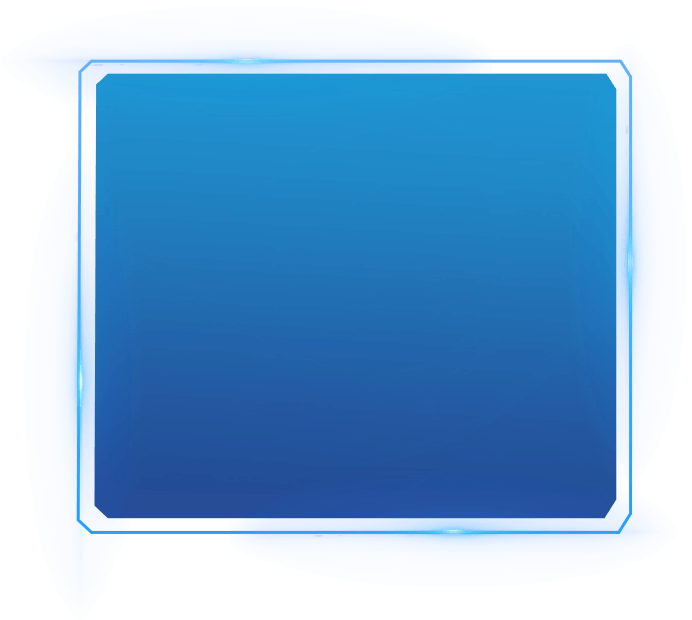
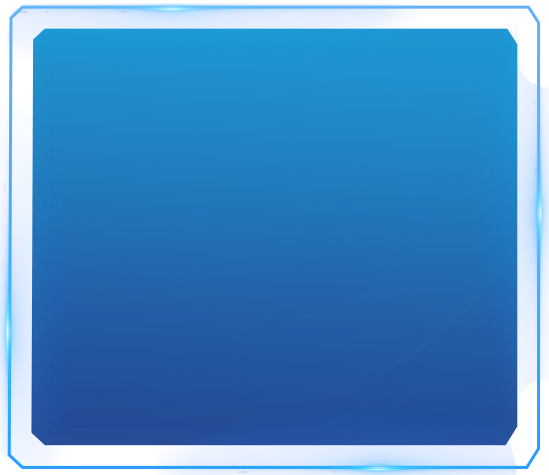
提交logo更新

diff --git a/src/bundles/authBundle/login/index.vue b/src/bundles/authBundle/login/index.vue
@@ -1,19 +1,21 @@
 <template>
   <div class="jc-login-warp">
-    <img src="./assets/login-bg.png" class="jc-login-bg" />
+    <img :src="systemBg" class="jc-login-bg" />
     <div class="jc-login-header" :style="systemLogo"></div>
-    <div class="jc-login-space">
-      <div class="jc-login-title">欢迎登录</div>
-      <div class="jc-input-warp">
-        <input class="jc-login-input" type="text" v-model="form.userName" placeholder="请输入账号" maxlength="20" @keyup.enter="onSubmit" />
-      </div>
-      <div class="jc-input-warp">
-        <input class="jc-login-input" type="password" v-model="form.password" placeholder="请输入密码" maxlength="20" @keyup.enter="onSubmit" />
-      </div>
-      <div class="jc-tip" v-text="tip"></div>
-      <div class="jc-login-btn" @click="onSubmit">
-        <JcSpinner v-if="loading"></JcSpinner>
-        <span v-else>登 录</span>
+    <div class="jc-login-space" :style="loginBg" :class="loginPosition">
+      <div class="jc-logon-content">
+        <div class="jc-login-title">欢迎登录</div>
+        <div class="jc-input-warp">
+          <input class="jc-login-input" type="text" v-model="form.userName" placeholder="请输入账号" maxlength="20" @keyup.enter="onSubmit" />
+        </div>
+        <div class="jc-input-warp jc-last-child">
+          <input class="jc-login-input" type="password" v-model="form.password" placeholder="请输入密码" maxlength="20" @keyup.enter="onSubmit" />
+        </div>
+        <div class="jc-tip" v-text="tip"></div>
+        <div class="jc-login-btn" @click="onSubmit">
+          <JcSpinner v-if="loading"></JcSpinner>
+          <span v-else>登 录</span>
+        </div>
       </div>
     </div>
   </div>
@@ -24,6 +26,7 @@ import { login } from '@/api/auth'
 import md5 from 'md5'
 import { getDomainLogoConfig, setDomainLogoConfig } from '@/libs/storage'
 import { listAll } from '@/api/domainLogo'
+import { LOGIN_WINDOWS_POSITION } from '@/constant/Dictionaries'
 
 export default {
   name: 'Login',
@@ -43,7 +46,18 @@ export default {
       return this.config.domainLogo ? `background-image: url(${this.config.domainLogo});` : ''
     },
     systemBg() {
-      return this.config.domainLogo ? `background-image: url(${this.config.domainLogo});` : ''
+      return this.config.firstPageLogo ? this.config.firstPageLogo : require('./assets/login-bg.png')
+    },
+    loginBg() {
+      return this.config.firstPageLoginLogo ? `background-image: url(${this.config.firstPageLoginLogo});` : ''
+    },
+    loginPosition() {
+      if (this.config.loginLogoLocation == LOGIN_WINDOWS_POSITION.LEFT) {
+        return 'jc-left'
+      } else if (this.config.loginLogoLocation == LOGIN_WINDOWS_POSITION.CENTER) {
+        return 'jc-center'
+      }
+      return ''
     }
   },
   created() {
@@ -53,16 +67,16 @@ export default {
     async initData() {
       let configs = getDomainLogoConfig()
 
-      this.calcLogo(configs)
+      this.calcConfig(configs)
       try {
         configs = await listAll()
-        this.calcLogo(configs)
+        this.calcConfig(configs)
         setDomainLogoConfig(configs)
       } catch (error) {
         console.log(error)
       }
     },
-    calcLogo(configs) {
+    calcConfig(configs) {
       console.log('登录系统配置', configs)
       //根据配置设置系统logo
       if (configs && configs.length) {
@@ -80,7 +94,7 @@ export default {
           this.loading = true
           login({ userName: this.form.userName, password: md5(this.form.password) }).then((res) => {
             this.setUser(res)
-            let goUrl = '/'
+            let goUrl = { name: this.config.entranceRouter ? this.config.entranceRouter : 'index' }
 
             if (this.$route.query.callbackUrl && !this.$route.query.callbackUrl.includes('login')) {
               goUrl = this.$route.query.callbackUrl
@@ -122,26 +136,42 @@ export default {
   background-image: url(/static/images/login-logo.png);
   background-repeat: no-repeat;
   background-position: 60px center;
-  border-bottom: solid 1px #253270;
 }
 .jc-login-space {
   position: absolute;
   top: 0;
-  left: 60%;
   bottom: 0;
-  right: 0;
+  right: 60px;
   margin: auto 0 auto 0;
-  width: 560px;
-  height: 500px;
+  width: 420px;
+  height: 400px;
   background: url(./assets/login-warp.png) no-repeat center;
   background-size: 100% 100%;
-  padding: 60px 92px 84px 108px;
+  &.jc-center {
+    left: 0;
+    right: 0;
+    margin: auto;
+  }
+  &.jc-left {
+    left: 60px;
+    right: auto;
+  }
+}
+.jc-logon-content {
+  position: absolute;
+  top: 0;
+  left: 0;
+  right: 0;
+  bottom: 0;
+  margin: auto;
+  width: 280px;
+  height: 300px;
 }
 .jc-login-title {
   text-align: center;
-  height: 110px;
-  line-height: 110px;
-  font-size: 34px;
+  height: 80px;
+  line-height: 60px;
+  font-size: 22px;
   letter-spacing: 5px;
   color: $jc-color-white;
 }
@@ -150,15 +180,12 @@ export default {
   position: relative;
   height: 40px;
   padding: 0 20px;
-  background-color: #0e6aae;
-  box-shadow: 0 0 2px #5bd0e8;
+  background-color: rgba(255, 255, 255, 0.2);
   border-radius: 20px;
   overflow: hidden;
-  margin-bottom: 24px;
-  transform: all 0.3s;
-  &:hover,
-  &:focus {
-    box-shadow: 0 0 3px #5bd0e8;
+  margin-bottom: 26px;
+  &.jc-last-child {
+    margin-bottom: 12px;
   }
   .jc-login-input {
     height: 40px;
@@ -167,11 +194,16 @@ export default {
     background-color: transparent;
     border: none;
     outline: none;
-    box-shadow: 0 0 0 1000px #0e6aae inset !important;
+    text-align: center;
+    font-size: $jc-font-size-medium;
+    box-shadow: 0 0 0 1000px transparent inset !important;
     color: $jc-color-white;
+    letter-spacing: 1px;
 
     &::-webkit-input-placeholder {
-      color: rgba($color: $jc-color-white, $alpha: 0.8);
+      color: rgba($color: $jc-color-white, $alpha: 0.2);
+      font-size: $jc-font-size-medium;
+      letter-spacing: 1px;
     }
     &:-webkit-autofill {
       color: $jc-color-white !important;
@@ -184,12 +216,14 @@ export default {
 .jc-tip {
   height: 24px;
   line-height: 20px;
+  text-align: center;
   color: $jc-color-danger;
+  font-size: $jc-font-size-smaller;
 }
 .jc-login-btn {
   position: relative;
   width: 100%;
-  background-color: #46b0e2;
+  background-color: #0096ff;
   color: $jc-color-white;
   text-align: center;
   font-size: 18px;
@@ -197,10 +231,10 @@ export default {
   line-height: 40px;
   margin-top: 10px;
   cursor: pointer;
-  opacity: 0.8;
+  opacity: 1;
   border-radius: 20px;
   &:hover {
-    opacity: 1;
+    opacity: 0.8;
   }
 }
 </style>

diff --git a/src/bundles/commonBundle/header/index.vue b/src/bundles/commonBundle/header/index.vue
@@ -1,6 +1,6 @@
 <template>
   <header class="jc-header">
-    <img :src="systemLogo" class="jc-header-logo" @click="$router.push({name: 'index'})" />
+    <img :src="systemLogo" class="jc-header-logo" @click="$router.push({name: logoRouter})" />
     <template v-if="isLogin">
       <div class="jc-header-menus">
         <div class="jc-user-warp">
@@ -21,6 +21,7 @@
 
 <script>
 import { mapState, mapGetters, mapMutations } from 'vuex'
+import { getDomainLogoConfig } from '@/libs/storage'
 
 export default {
   name: 'CommonHeader',
@@ -31,8 +32,12 @@ export default {
   data() {
     return {
       visible: false,
+      logoRouter: 'index',
       resetPwdVisible: false
     }
+  },
+  created() {
+    this.getConfig() //获取配置
   },
   computed: {
     ...mapState('user', {
@@ -49,6 +54,20 @@ export default {
     logout() {
       this.loginOut()
       this.$router.push({ name: 'login' })
+    },
+    getConfig() {
+      let configs = getDomainLogoConfig()
+
+      if (configs && configs.length) {
+        let host = window.location.host
+
+        let config = configs.find(item => item.domain == host)
+
+        if (config) {
+          //如果router配置了，且不是index，则点击logo 进入main
+          this.logoRouter = (config.entranceRouter && config.entranceRouter != 'index') ? 'main' : 'index'
+        }
+      }
     }
   }
 }
